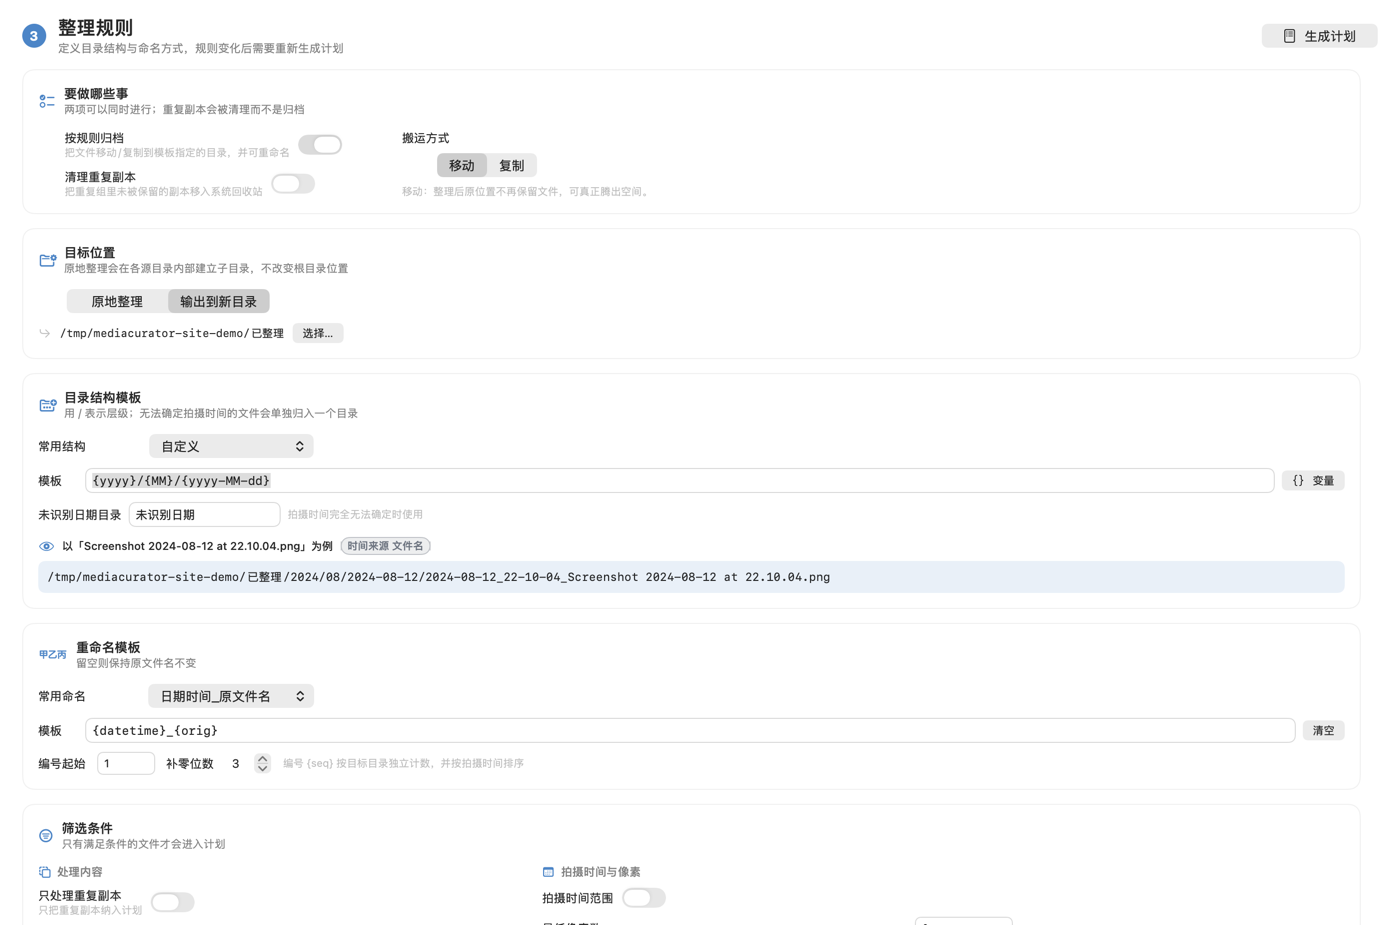
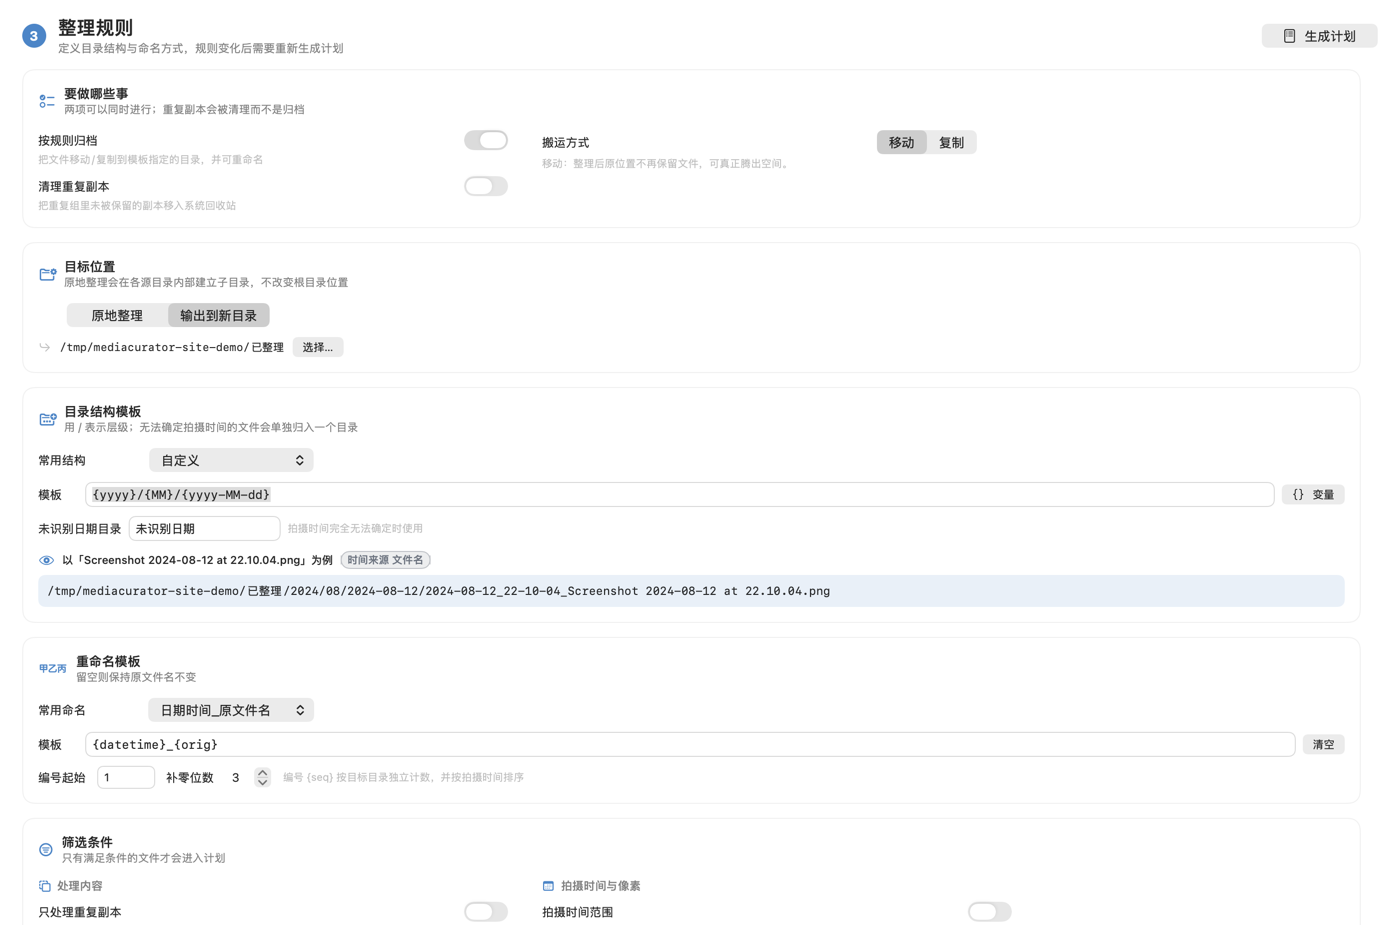
v1.0.4：排版收尾——开关落标题行、统计卡等高、搬运方式统一
用户逐轮验收后的三处排版修正。都属「差几个点，截图里看不出来」的那一类，
所以每处都配了像素级判据，并用旧写法反向验证过（改回去确实变红）。

- **开关落到标题那一行**：`CheckRow` 原先写成 `Toggle { VStack { 标题; 描述 } }`，
  SwiftUI 会把开关**垂直居中到两行文字中间** —— 描述占一行的行与占三行的行，
  开关的纵向位置各不相同，一列看下来参差不齐。而描述长短本就无法统一，
  只能让控件位置不去依赖它。改成 `CheckRow` 直接复用 `OptionRow`
  （标签在左、控件贴齐列右边缘、描述另起一行），16 处调用一次改完，
  开关 / 输入框 / 下拉框三类行从此共用同一套排版。
- **统计卡等高**：`StatCard` 的副标题缺省时留一个空格占位。
  原先有副标题的卡比没副标题的高一行，摆在同一行里下沿参差。没钉死高度 ——
  卡片按内容自撑，硬编码会在换字体或数值变长时裁掉内容。
  （顺带确认：只有扫描页的卡片是「有的有副标题、有的没有」，
  所以除此之外的截图逐字节未变。）
- **「搬运方式」与其它选项行统一**：它原先「标签独占一行、控件在下一行、说明再一行」
  （还有硬编码 300 宽），而紧邻的两个 `CheckRow` 是标签在左、开关贴右。
  现改走 `OptionRow`，并把该卡左列从 330 换成 `optionColumnWidth`，与另两页同一网格。

自检新增两条像素判据（引擎 144 项 / 界面 124 项，窄宽度全过）：
- 开关相对标题的纵向偏移不随描述行数变化 —— 实测短/长描述 −5.0 / −5.0 点（差 0.0）；
- 有无副标题的卡片高度一致 —— 实测 127.5 / 127.5 点（差 0.0）。
  这条只能量**底色下沿**：差出来的那一行上没有文字（墨迹判据测不到），
  而卡片底色只有 7% 不透明度，阈值要单独给一档。

官网同步到 v1.0.4（链接、实测体积 2.7 MB / 4.2 MB、更新说明），截图按新排版重出。

diff --git a/Sources/MediaCurator/SelfTest/UIRenderCheck.swift b/Sources/MediaCurator/SelfTest/UIRenderCheck.swift
@@ -54,6 +54,17 @@ enum UIRenderCheck {
         /// 而不是画到画布外面 —— 顶部那条带量不到它，只能整幅量。
         var fullLeadingEdgeInk: Double = 0
         var fullTrailingEdgeInk: Double = 0
+        /// 左侧 45% 与右侧 12% 两块区域里，最上面那一行有墨的纵向位置（点）。
+        /// 见「控件位置不随描述行数变化」那条判据的说明。
+        var leftInkTop: Double?
+        var rightInkTop: Double?
+        /// 画面中部**浅色块**的下沿（点）。
+        ///
+        /// 用的是比墨迹低得多的阈值（0.03）：卡片底色只有 7% 的不透明度，
+        /// 按墨迹那套 0.10 的阈值根本测不到。用来验「卡片高度是否一致」——
+        /// 高度差是十几个点，但没有任何文字落在差出来的那一行上（说明行留空时更是如此），
+        /// 只能量底色的边界。
+        var panelBottom: Double?
     }
 
     /// 把主色解析成具体分量。显式指定 sRGB —— SwiftUI 的 `Color(red:green:blue:)`
@@ -703,6 +714,75 @@ enum UIRenderCheck {
                           String(format: "缩略图缓存命中（第二次耗时 %.4f 秒）", elapsed))
         }
 
+        // ---------- 控件位置不随描述行数变化 ----------
+        //
+        // 开关曾经写成 `Toggle { VStack { 标题; 描述 } }`，SwiftUI 会把开关**垂直居中到
+        // 两行文字中间** —— 于是「描述占一行」的行与「描述占三四行」的行，开关的纵向位置
+        // 各不相同，一列看下来参差不齐。而描述的长短本来就无法统一，所以只能让开关的位置
+        // 不去依赖它。现改成「控件与标题同行、描述另起一行」（`CheckRow` 直接复用 `OptionRow`）。
+        //
+        // 这种「差几个点」的问题截图里根本看不出来，只能量：分别渲染描述一行与描述多行的
+        // 同一个开关行，取左侧最上面的墨（标题）与右侧最上面的墨（开关），
+        // 两者的纵向偏移必须一致。
+        func switchOffset(hint: String) async -> Double? {
+            let sample = await render(name: "行内控件-\(hint.count)字",
+                                      size: CGSize(width: 520, height: 140),
+                                      content: {
+                AnyView(VStack(alignment: .leading, spacing: 10) {
+                    CheckRow(title: "包含图片", subtitle: hint, isOn: .constant(true))
+                }
+                .padding(20))
+            })
+            guard let sample, let left = sample.leftInkTop, let right = sample.rightInkTop else {
+                return nil
+            }
+            return right - left
+        }
+        let shortHintOffset = await switchOffset(hint: "一行说明")
+        let longHintOffset = await switchOffset(
+            hint: "这一句说明明显更长，会折成好几行，用来把描述的行数拉开，好验证开关的位置不会跟着它跑。")
+        if let shortHintOffset, let longHintOffset {
+            let delta = abs(shortHintOffset - longHintOffset)
+            print(String(format: "  · 开关相对标题的纵向偏移：短描述 %.1f 点 ｜ 长描述 %.1f 点（差 %.1f）",
+                         shortHintOffset, longHintOffset, delta))
+            checker.check(delta <= 2.0,
+                          "开关位置不随描述行数变化（偏移差 \(String(format: "%.1f", delta)) 点）")
+        } else {
+            checker.check(false, "行内控件对齐判据渲染失败（取不到墨迹位置）")
+        }
+
+        // ---------- 卡片高度一致 ----------
+        //
+        // 一行的几张统计卡里，有的有副标题、有的没有。副标题那一行不占位的话，
+        // 有副标题的卡就比没说明的高一行，摆在同一行里下沿参差不齐。
+        // 卡片按内容自撑高度，所以「统一高度」只能靠让内容行数一致来保证
+        // （`StatCard` 里副标题缺省时放一个空格）。
+        //
+        // 只能量**底色下沿**：差出来的那一行上没有任何文字，墨迹判据测不到；
+        // 底色只有 7% 不透明度，所以这里用比墨迹低得多的阈值。
+        func cardBottom(subtitle: String?) async -> Double? {
+            let sample = await render(name: "卡片高度-\(subtitle == nil ? "无副标题" : "有副标题")",
+                                      size: CGSize(width: 520, height: 160),
+                                      content: {
+                AnyView(VStack(spacing: 12) {
+                    StatCard(title: "文件总数", value: "1234", subtitle: subtitle,
+                             symbol: "photo.on.rectangle")
+                }
+                .padding(20))
+            })
+            return sample?.panelBottom
+        }
+        if let withSubtitle = await cardBottom(subtitle: "耗时 12.3 秒"),
+           let withoutSubtitle = await cardBottom(subtitle: nil) {
+            let delta = abs(withSubtitle - withoutSubtitle)
+            print(String(format: "  · 卡片下沿：有副标题 %.1f 点 ｜ 无副标题 %.1f 点（差 %.1f）",
+                         withSubtitle, withoutSubtitle, delta))
+            checker.check(delta <= 2.0,
+                          "有无副标题的卡片高度一致（下沿差 \(String(format: "%.1f", delta)) 点）")
+        } else {
+            checker.check(false, "卡片高度判据渲染失败（取不到底色下沿）")
+        }
+
         // ---------- 「检查重复媒体」开关 ----------
         // 关掉它应该只跳过比对：文件照样入库、「所有媒体」页照常有内容，
         // 而分组与摘要必须一并清零 —— 每次扫描的 `MediaItem.id` 都是新的，
@@ -1299,6 +1379,51 @@ enum UIRenderCheck {
         let edges = edgeInk(band: Int(140 * topScale))
         let fullEdges = edgeInk(band: height)
 
+        // 左右两块区域里「最上面那一行有墨的像素」在纵向的位置（换算回点）。
+        //
+        // 用途是验一条排版不变量：**控件的位置不能取决于描述有几行**。
+        // 以前开关是用 `Toggle { VStack { 标题; 描述 } }` 写的，SwiftUI 把开关垂直居中到
+        // 两行文字中间 —— 描述占一行的行和占三行的行，开关的纵向位置就各不相同，
+        // 一列看下来参差不齐。这种「差几个点」的问题截图里看不出来，只能量。
+        func inkTop(xRange: ClosedRange<Int>) -> Double? {
+            func value(_ x: Int, _ y: Int) -> Double? {
+                guard let raw = rep.colorAt(x: x, y: y),
+                      let color = raw.usingColorSpace(rep.colorSpace) else { return nil }
+                return 0.299 * Double(color.redComponent)
+                    + 0.587 * Double(color.greenComponent)
+                    + 0.114 * Double(color.blueComponent)
+            }
+            let step = max(1, Int(1 * topScale))
+            for y in stride(from: 0, to: height, by: step) {
+                for x in stride(from: xRange.lowerBound, through: xRange.upperBound, by: step) {
+                    if let v = value(x, y), abs(v - median) > 0.10 { return Double(y) / topScale }
+                }
+            }
+            return nil
+        }
+        let leftTop = inkTop(xRange: 0...(width * 45 / 100))
+        let rightTop = inkTop(xRange: (width * 88 / 100)...(width - 1))
+
+        // 浅色块的下沿：从中部取样（避开左右边缘的圆角），自下而上找第一行
+        // 「与背景差异 > 0.03」的像素。卡片底色只有 7% 不透明度，阈值必须比墨迹低。
+        func panelBottomEdge() -> Double? {
+            func value(_ x: Int, _ y: Int) -> Double? {
+                guard let raw = rep.colorAt(x: x, y: y),
+                      let color = raw.usingColorSpace(rep.colorSpace) else { return nil }
+                return 0.299 * Double(color.redComponent)
+                    + 0.587 * Double(color.greenComponent)
+                    + 0.114 * Double(color.blueComponent)
+            }
+            let step = max(1, Int(1 * topScale))
+            for y in stride(from: height - 1, through: 0, by: -step) {
+                for x in stride(from: width * 20 / 100, to: width * 80 / 100, by: step) {
+                    if let v = value(x, y), abs(v - median) > 0.03 { return Double(y) / topScale }
+                }
+            }
+            return nil
+        }
+        let panelBottom = panelBottomEdge()
+
         return RenderResult(name: name,
                             width: width,
                             height: height,
@@ -1310,7 +1435,10 @@ enum UIRenderCheck {
                             trailingEdgeInk: edges.trailing,
                             hueBucketCount: hueBuckets.count,
                             fullLeadingEdgeInk: fullEdges.leading,
-                            fullTrailingEdgeInk: fullEdges.trailing)
+                            fullTrailingEdgeInk: fullEdges.trailing,
+                            leftInkTop: leftTop,
+                            rightInkTop: rightTop,
+                            panelBottom: panelBottom)
     }
 
     /// 把颜色映射到 12 个色相桶之一；灰色与接近全黑 / 全白的不计入（返回 nil）。

diff --git a/docs/index.html b/docs/index.html
@@ -48,17 +48,17 @@
       </p>
 
       <div class="hero-actions">
-        <a class="btn btn-primary" href="https://github.com/zdx8/MediaCurator-macOS/releases/download/v1.0.3/MediaCurator-v1.0.3-arm64.zip">
+        <a class="btn btn-primary" href="https://github.com/zdx8/MediaCurator-macOS/releases/download/v1.0.4/MediaCurator-v1.0.4-arm64.zip">
           <span class="btn-title">下载 for Apple Silicon</span>
           <span class="btn-sub">arm64 · 2.7 MB</span>
         </a>
-        <a class="btn" href="https://github.com/zdx8/MediaCurator-macOS/releases/download/v1.0.3/MediaCurator-v1.0.3-universal.zip">
+        <a class="btn" href="https://github.com/zdx8/MediaCurator-macOS/releases/download/v1.0.4/MediaCurator-v1.0.4-universal.zip">
           <span class="btn-title">下载通用版</span>
           <span class="btn-sub">Intel + Apple Silicon · 4.2 MB</span>
         </a>
       </div>
 
-      <p class="version-pill"><strong>v1.0.3</strong> · 扫描选项与筛选条件重新分组排版；「扫描后查重」改名「检查重复媒体」，隐藏文件与包目录拆成两个开关</p>
+      <p class="version-pill"><strong>v1.0.4</strong> · 排版收尾：开关落在标题行、统计卡等高、「搬运方式」与其它选项行统一</p>
 
       <ul class="hero-facts">
         <li><strong>macOS 14+</strong> 起</li>
@@ -373,16 +373,23 @@
             <h3>Apple Silicon 版 <span class="tag">推荐</span></h3>
             <p>适用于 M1 / M2 / M3 / M4 及更新芯片的 Mac</p>
           </div>
-          <a class="btn btn-primary" href="https://github.com/zdx8/MediaCurator-macOS/releases/download/v1.0.3/MediaCurator-v1.0.3-arm64.zip">MediaCurator-v1.0.3-arm64.zip<small>2.7 MB</small></a>
+          <a class="btn btn-primary" href="https://github.com/zdx8/MediaCurator-macOS/releases/download/v1.0.4/MediaCurator-v1.0.4-arm64.zip">MediaCurator-v1.0.4-arm64.zip<small>2.7 MB</small></a>
         </div>
         <div class="download-row">
           <div>
             <h3>通用版</h3>
             <p>Intel 芯片的 Mac，或不确定自己用哪种芯片时选这个</p>
           </div>
-          <a class="btn" href="https://github.com/zdx8/MediaCurator-macOS/releases/download/v1.0.3/MediaCurator-v1.0.3-universal.zip">MediaCurator-v1.0.3-universal.zip<small>4.2 MB</small></a>
+          <a class="btn" href="https://github.com/zdx8/MediaCurator-macOS/releases/download/v1.0.4/MediaCurator-v1.0.4-universal.zip">MediaCurator-v1.0.4-universal.zip<small>4.2 MB</small></a>
         </div>
       </div>
+
+      <p class="req">
+        <strong>v1.0.4 更新</strong>排版收尾几处：所有开关行的<strong>开关落在标题那一行</strong>、
+        描述另起一行（此前开关被垂直居中到两行文字中间，描述一长一短，开关的纵向位置就跟着跑，
+        一列看下来参差不齐）；扫描页的五张统计卡<strong>高度统一</strong>；
+        整理规则页的「<strong>搬运方式</strong>」从「标签独占一行」改成与其它选项行同一套排版。
+      </p>
 
       <p class="req">
         <strong>v1.0.3 更新</strong><strong>扫描选项</strong>与<strong>筛选条件</strong>重新分组排版：
@@ -397,7 +404,7 @@
       </p>
 
       <p class="req">
-        <strong>关于文件名</strong>GitHub 会剥掉附件名里的非 ASCII 字符，所以下载得到的文件名是 <code>MediaCurator-v1.0.3-机型.zip</code>；本地打包脚本产出的叫 <code>影像管家-v1.0.3-机型.zip</code>，内容完全一致。
+        <strong>关于文件名</strong>GitHub 会剥掉附件名里的非 ASCII 字符，所以下载得到的文件名是 <code>MediaCurator-v1.0.4-机型.zip</code>；本地打包脚本产出的叫 <code>影像管家-v1.0.4-机型.zip</code>，内容完全一致。
       </p>
 
       <p class="req">

diff --git a/Sources/MediaCurator/Views/Components.swift b/Sources/MediaCurator/Views/Components.swift
@@ -154,12 +154,15 @@ struct StatCard: View {
                 .foregroundStyle(.primary)
                 .lineLimit(1)
                 .minimumScaleFactor(0.7)
-            if let subtitle {
-                Text(subtitle)
-                    .font(.system(size: 10.5))
-                    .foregroundStyle(.tertiary)
-                    .lineLimit(1)
-            }
+            // 说明行**始终占位**（没有说明时放一个空格）。
+            // 少了这一行，有说明的卡就比没说明的高一行 —— 摆在同一行里，
+            // 下沿参差不齐（在 HStack 里垂直居中之后更明显）。
+            // 卡片是按内容自撑高度的，所以「统一高度」只能靠让内容行数一致来保证，
+            // 钉死一个高度反而会在换字体或数值变长时裁掉内容。
+            Text(subtitle ?? " ")
+                .font(.system(size: 10.5))
+                .foregroundStyle(.tertiary)
+                .lineLimit(1)
         }
         .padding(14)
         .frame(maxWidth: .infinity, alignment: .leading)
@@ -482,22 +485,27 @@ struct PageHeader: View {
 
 // MARK: - 复选行
 
+/// 带开关的选项行。
+///
+/// **开关落在标题那一行，描述另起一行。** 原先用的是 `Toggle { VStack { 标题; 描述 } }` ——
+/// 开关会被垂直居中到两行文字中间，于是描述只有一行的行和描述折成两行的行，
+/// 开关的纵向位置各不相同，一列看下来参差不齐。而描述的长短本来就无法统一，
+/// 所以只能让开关的位置**不依赖描述有几行**。
+///
+/// 排版直接复用 `OptionRow`：这几类行（开关 / 输入框 / 下拉框）现在共用同一套
+/// 「控件贴齐右边缘、描述在下一行」的规则，将来加新的控件类型也不会又长出一个样子。
 struct CheckRow: View {
     var title: String
     var subtitle: String?
     @Binding var isOn: Bool
 
     var body: some View {
-        Toggle(isOn: $isOn) {
-            VStack(alignment: .leading, spacing: 1) {
-                Text(title).font(.system(size: 12))
-                if let subtitle {
-                    Text(subtitle).font(.system(size: 10.5)).foregroundStyle(.tertiary)
-                }
-            }
+        OptionRow(title: title, hint: subtitle) {
+            Toggle("", isOn: $isOn)
+                .toggleStyle(.switch)
+                .controlSize(.small)
+                .labelsHidden()
         }
-        .toggleStyle(.switch)
-        .controlSize(.small)
     }
 }
 

diff --git a/Sources/MediaCurator/Views/OrganizeView.swift b/Sources/MediaCurator/Views/OrganizeView.swift
@@ -57,10 +57,15 @@ struct OrganizeView: View {
                                      subtitle: "把重复组里未被保留的副本移入系统回收站",
                                      isOn: $state.filter.cleanRedundantDuplicates)
                     }
-                    .frame(width: 330)
+                    .frame(maxWidth: optionColumnWidth, alignment: .leading)
 
-                    VStack(alignment: .leading, spacing: 8) {
-                        Text("搬运方式").font(.system(size: 12))
+                    // 与其它选项行同一套排版：标签在左、控件贴齐列右边缘、说明另起一行。
+                    // 原先这里是「标签独占一行、控件在下一行、说明再一行」，
+                    // 和同页面其它行摆在一起就是两种格式。
+                    OptionRow(title: "搬运方式",
+                              hint: state.rule.transferMode == .move
+                                  ? "移动：整理后原位置不再保留文件，可真正腾出空间。"
+                                  : "复制：原文件保持不动，适合先验证规则是否正确。") {
                         Picker("", selection: $state.rule.transferMode) {
                             ForEach(TransferMode.allCases, id: \.self) { mode in
                                 Text(mode.displayName).tag(mode)
@@ -69,14 +74,8 @@ struct OrganizeView: View {
                         .pickerStyle(.segmented)
                         .labelsHidden()
                         .frame(width: 170)
-                        Text(state.rule.transferMode == .move
-                             ? "移动：整理后原位置不再保留文件，可真正腾出空间。"
-                             : "复制：原文件保持不动，适合先验证规则是否正确。")
-                            .font(.system(size: 10.5))
-                            .foregroundStyle(.tertiary)
-                            .fixedSize(horizontal: false, vertical: true)
-                            .frame(width: 300, alignment: .leading)
                     }
+                    .frame(maxWidth: optionColumnWidth, alignment: .leading)
 
                     Spacer()
                 }

diff --git a/README.md b/README.md
@@ -324,7 +324,7 @@ APP=dist/MediaCurator.app/Contents/MacOS/MediaCurator
 # 闭环自检：素材生成 → 扫描 → 查重 → 计划 → 执行 → 撤销 → 覆盖与回退（144 项断言）
 "$APP" --headless selftest
 
-# 界面自检：离屏渲染全部页面，校验绘图内容、页面差异、主题与配色、缩略图、视频预览（122 项断言）
+# 界面自检：离屏渲染全部页面，校验绘图内容、页面差异、主题与配色、缩略图、视频预览（124 项断言）
 "$APP" --headless uicheck --shots dist/ui-preview
 
 # 窄宽度渲染：8 档宽度 × 3 种整组决定；并把扫描页/整理规则页放到最窄宽度整幅比对边缘墨迹
@@ -368,6 +368,12 @@ APP=dist/MediaCurator.app/Contents/MacOS/MediaCurator
   整棵来源目录被排除后不产生任何归档操作，而清理操作的数量一个都不变
 - **来源目录树的层级连续**：中间层目录即使没有直接文件也必须补进树里，
   否则缩进算错、父目录找不到；各目录的直接文件数之和必须等于文件总数（不重不漏）
+- **排版不变量（两条）**：① 开关相对标题的纵向偏移**不随描述行数变化** ——
+  以前开关是用 `Toggle { VStack { 标题; 描述 } }` 写的，SwiftUI 会把它垂直居中到
+  两行文字中间，描述一行的行与三行的行开关高度各不相同，一列看下来参差不齐；
+  ② **有无副标题的统计卡高度一致** —— 卡片按内容自撑高度，所以靠「副标题缺省时留一个空行」
+  保证行数一致。两条都只能靠像素量：差出来的那一行上没有文字（墨迹判据测不到），
+  卡片底色只有 7% 不透明度（得用比墨迹低得多的阈值测它的下沿）
 - **「跳过隐藏文件」与「跳过包目录」两个开关各自的真值表**：四种组合各扫一次这棵树
   （普通文件 / 隐藏目录里的文件 / 包目录里的文件）。只验「开关打开时被跳过」是不够的 ——
   把「跳过包」写死在枚举器里的那版也照样通过，必须验「关掉以后包目录里的文件真的被扫出来」
